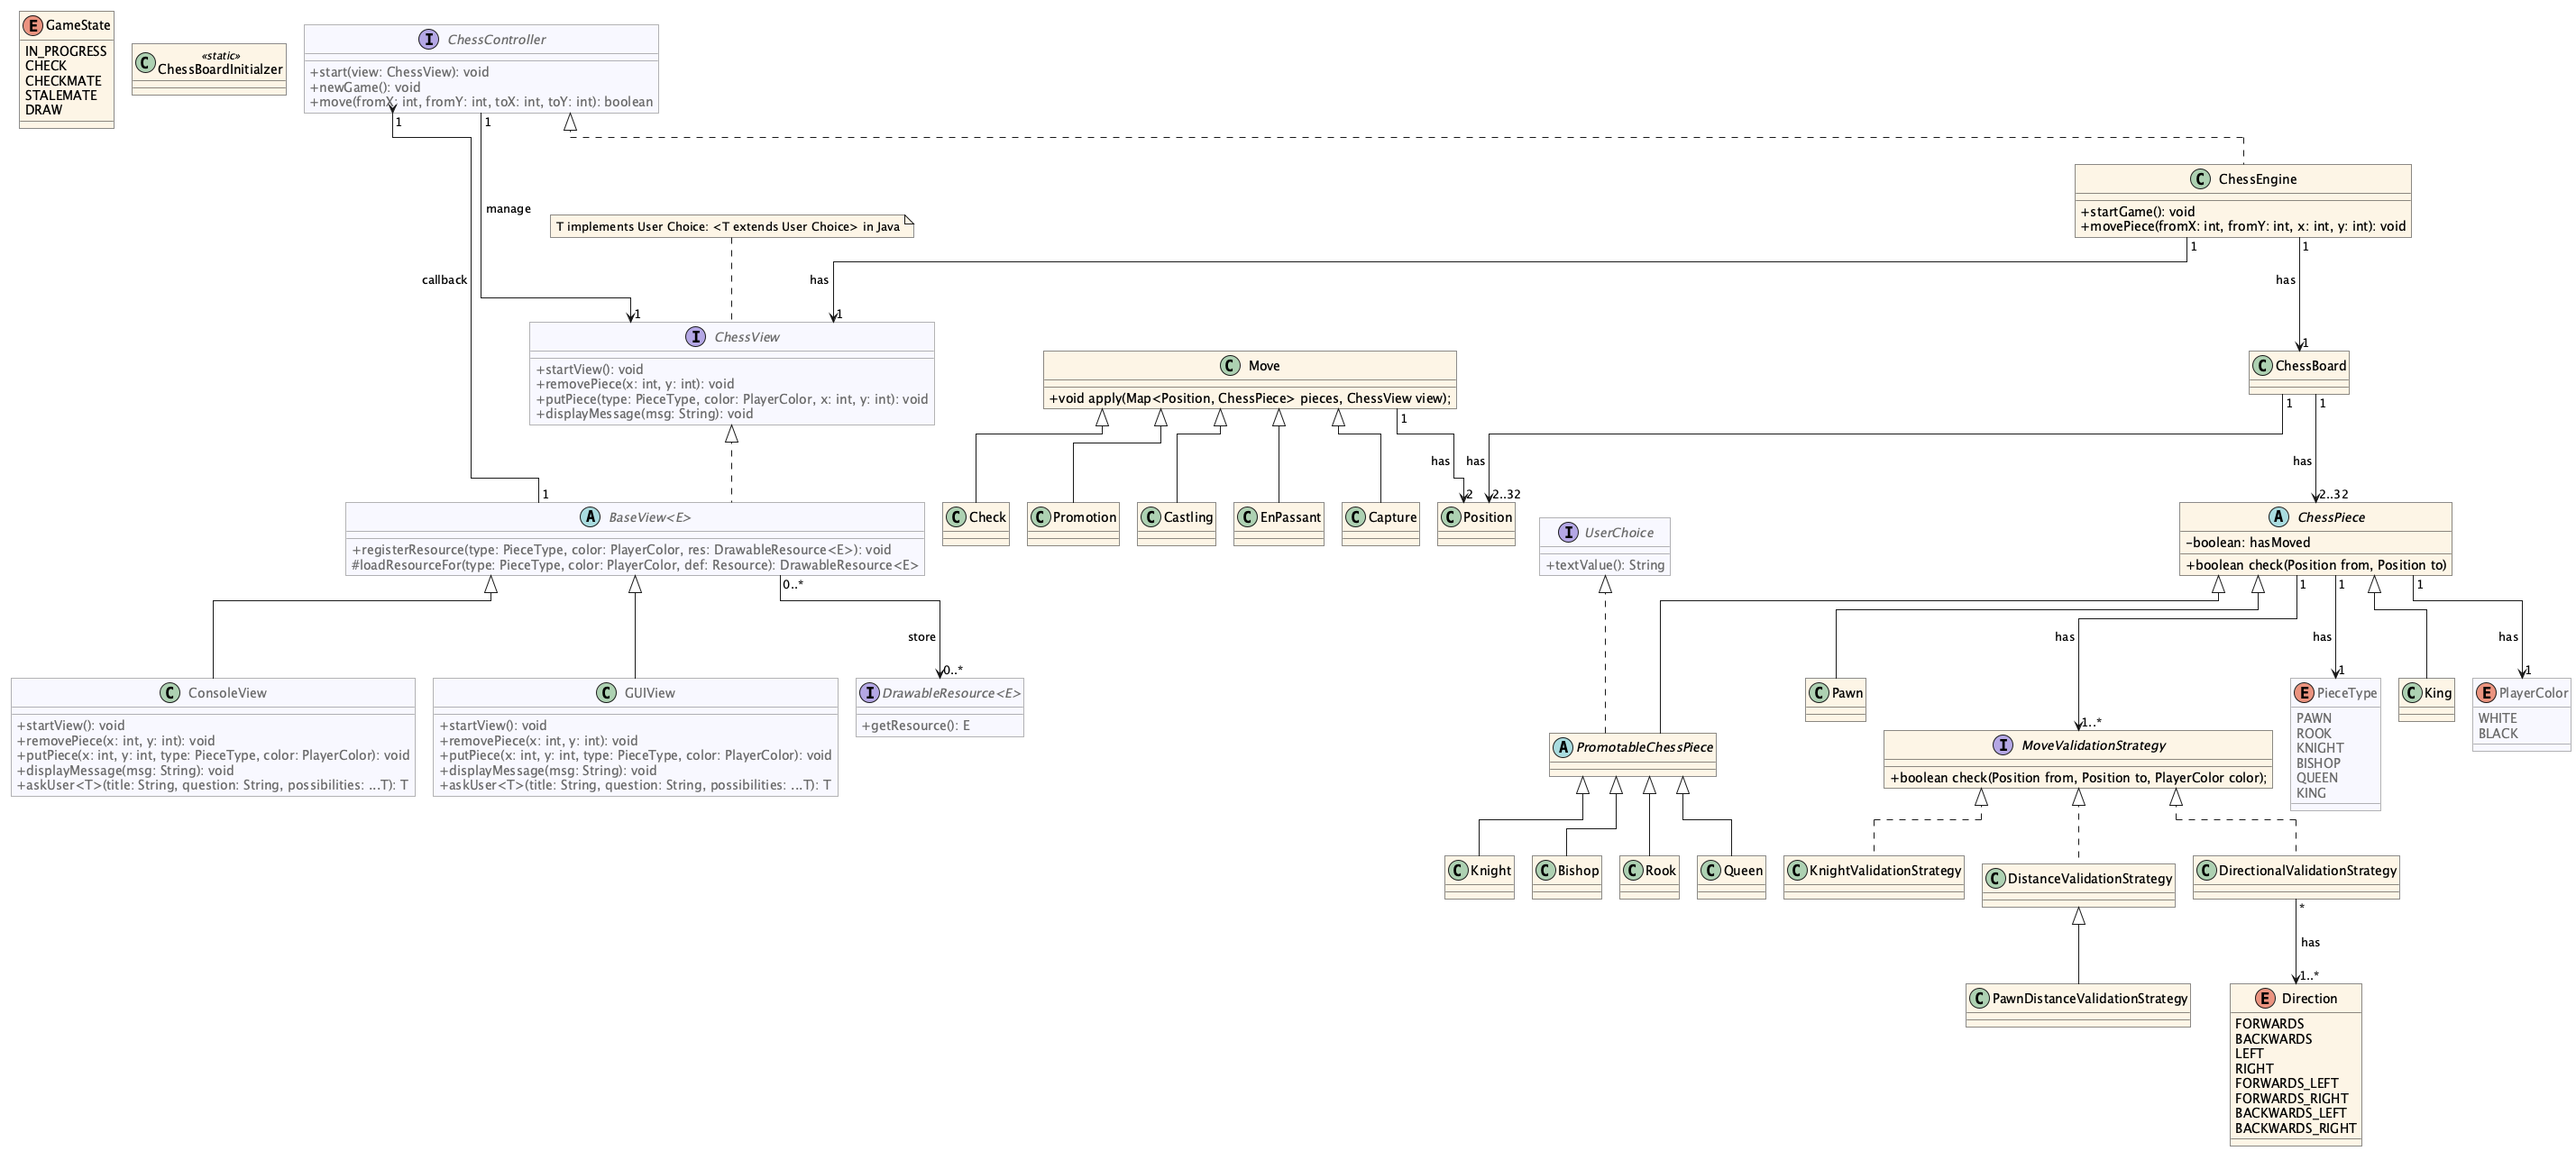
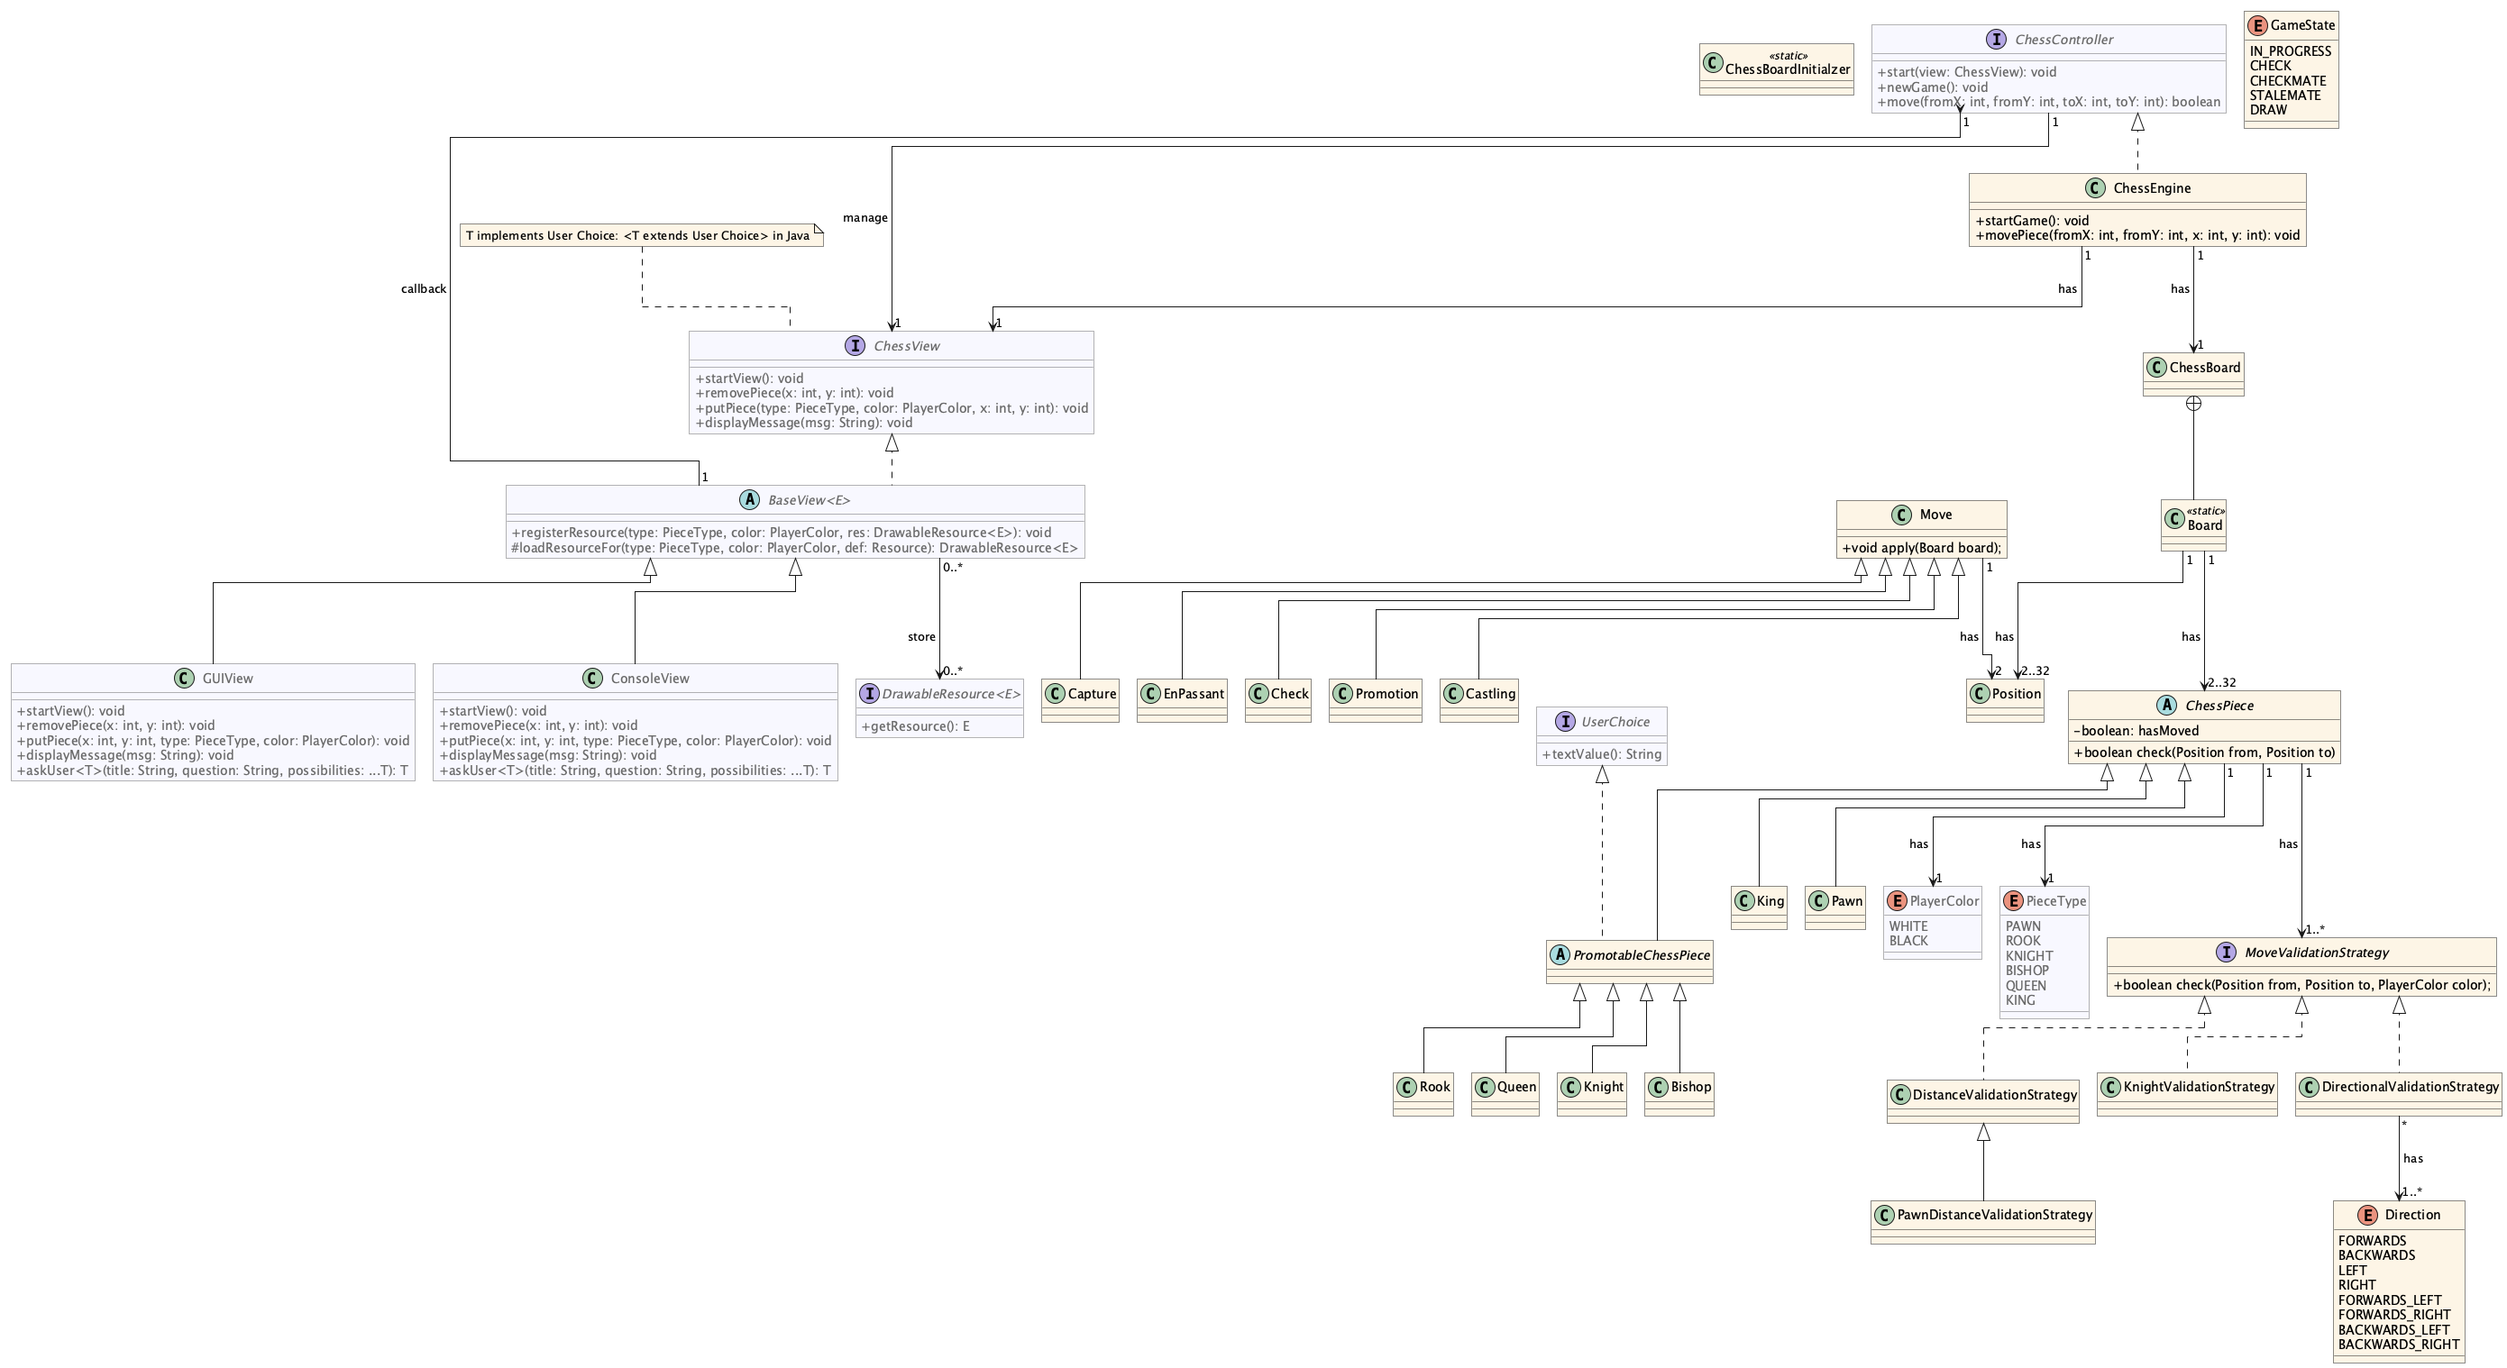
Refactor with Board inner class

diff --git a/chess/engine/ChessBoardInitializer.java b/chess/engine/ChessBoardInitializer.java
@@ -6,51 +6,51 @@ import chess.engine.piece.*;
 import java.util.Map;
 
 class ChessBoardInitializer {
-    public static void initializeBoard(Map<Position, ChessPiece> pieces) {
-        pieces.clear();
-        placePawns(pieces);
-        placeRooks(pieces);
-        placeKnights(pieces);
-        placeBishops(pieces);
-        placeKings(pieces);
-        placeQueens(pieces);
+    public static void initializeBoard(ChessBoard.Board board) {
+        board.clear();
+        placePawns(board);
+        placeRooks(board);
+        placeKnights(board);
+        placeBishops(board);
+        placeKings(board);
+        placeQueens(board);
     }
 
-    private static void placePawns(Map<Position, ChessPiece> pieces) {
+    private static void placePawns(ChessBoard.Board board) {
         for (int i = 0; i < 8; i++) {
-            pieces.put(new Position(i, 6), new Pawn(PlayerColor.WHITE));
-            pieces.put(new Position(i, 1), new Pawn(PlayerColor.BLACK));
+            board.put(new Position(i, 6), new Pawn(PlayerColor.WHITE));
+            board.put(new Position(i, 1), new Pawn(PlayerColor.BLACK));
         }
     }
 
-    private static void placeRooks(Map<Position, ChessPiece> pieces) {
-        pieces.put(new Position(0, 0), new Rook(PlayerColor.BLACK));
-        pieces.put(new Position(7, 0), new Rook(PlayerColor.BLACK));
-        pieces.put(new Position(0, 7), new Rook(PlayerColor.WHITE));
-        pieces.put(new Position(7, 7), new Rook(PlayerColor.WHITE));
+    private static void placeRooks(ChessBoard.Board board) {
+        board.put(new Position(0, 0), new Rook(PlayerColor.BLACK));
+        board.put(new Position(7, 0), new Rook(PlayerColor.BLACK));
+        board.put(new Position(0, 7), new Rook(PlayerColor.WHITE));
+        board.put(new Position(7, 7), new Rook(PlayerColor.WHITE));
     }
 
-    private static void placeKnights(Map<Position, ChessPiece> pieces) {
-        pieces.put(new Position(1, 0), new Knight(PlayerColor.BLACK));
-        pieces.put(new Position(6, 0), new Knight(PlayerColor.BLACK));
-        pieces.put(new Position(1, 7), new Knight(PlayerColor.WHITE));
-        pieces.put(new Position(6, 7), new Knight(PlayerColor.WHITE));
+    private static void placeKnights(ChessBoard.Board board) {
+        board.put(new Position(1, 0), new Knight(PlayerColor.BLACK));
+        board.put(new Position(6, 0), new Knight(PlayerColor.BLACK));
+        board.put(new Position(1, 7), new Knight(PlayerColor.WHITE));
+        board.put(new Position(6, 7), new Knight(PlayerColor.WHITE));
     }
 
-    private static void placeBishops(Map<Position, ChessPiece> pieces) {
-        pieces.put(new Position(2, 0), new Bishop(PlayerColor.BLACK));
-        pieces.put(new Position(5, 0), new Bishop(PlayerColor.BLACK));
-        pieces.put(new Position(2, 7), new Bishop(PlayerColor.WHITE));
-        pieces.put(new Position(5, 7), new Bishop(PlayerColor.WHITE));
+    private static void placeBishops(ChessBoard.Board board) {
+        board.put(new Position(2, 0), new Bishop(PlayerColor.BLACK));
+        board.put(new Position(5, 0), new Bishop(PlayerColor.BLACK));
+        board.put(new Position(2, 7), new Bishop(PlayerColor.WHITE));
+        board.put(new Position(5, 7), new Bishop(PlayerColor.WHITE));
     }
 
-    private static void placeKings(Map<Position, ChessPiece> pieces) {
-        pieces.put(new Position(4, 0), new King(PlayerColor.BLACK));
-        pieces.put(new Position(4, 7), new King(PlayerColor.WHITE));
+    private static void placeKings(ChessBoard.Board board) {
+        board.put(new Position(4, 0), new King(PlayerColor.BLACK));
+        board.put(new Position(4, 7), new King(PlayerColor.WHITE));
     }
 
-    private static void placeQueens(Map<Position, ChessPiece> pieces) {
-        pieces.put(new Position(3, 0), new Queen(PlayerColor.BLACK));
-        pieces.put(new Position(3, 7), new Queen(PlayerColor.WHITE));
+    private static void placeQueens(ChessBoard.Board board) {
+        board.put(new Position(3, 0), new Queen(PlayerColor.BLACK));
+        board.put(new Position(3, 7), new Queen(PlayerColor.WHITE));
     }
 }

diff --git a/chess/engine/ChessBoard.java b/chess/engine/ChessBoard.java
@@ -1,5 +1,6 @@
 package chess.engine;
 
+import chess.ChessView;
 import chess.engine.move.Move;
 import chess.engine.piece.*;
 
@@ -7,28 +8,67 @@ import java.util.HashMap;
 import java.util.Map;
 
 public class ChessBoard {
+    public static class Board {
+        private final Map<Position, ChessPiece> pieces = new HashMap<>();
+        private final ChessView view;
 
-    private final Map<Position, ChessPiece> pieces = new HashMap<>();
+        public Board(ChessView view) {
+            this.view = view;
+        }
 
-    public ChessBoard() {
+        public void put(Position pos, ChessPiece piece) {
+            pieces.put(pos, piece);
+            view.putPiece(piece.getType(), piece.getColor(), pos.x(), pos.y());
+        }
+
+        public ChessPiece get(Position pos) {
+            return pieces.get(pos);
+        }
+
+        public void remove(Position pos) {
+            pieces.remove(pos);
+            view.removePiece(pos.x(), pos.y());
+        }
+
+        public boolean containsKey(Position pos) {
+            return pieces.containsKey(pos);
+        }
+
+        public void clear() {
+            pieces.clear();
+        }
+
+        public void sync() {
+            for (Map.Entry<Position, ChessPiece> entry : pieces.entrySet()) {
+                final Position pos = entry.getKey();
+                final ChessPiece piece = entry.getValue();
+                view.putPiece(piece.getType(), piece.getColor(), pos.x(), pos.y());
+            }
+        }
+    }
+
+    private final Board board;
+
+    public ChessBoard(ChessView view) {
+        this.board = new Board(view);
         reset();
     }
 
-    public Map<Position, ChessPiece> getPieces() {
-        return pieces;
+    public Board getBoard() {
+        return board;
     }
 
     public void reset() {
-        ChessBoardInitializer.initializeBoard(pieces);
+        ChessBoardInitializer.initializeBoard(board);
     }
 
     public Move move(Position from, Position to) {
         // Check if piece exists at source position
-        if (!pieces.containsKey(from)) return null;
+        if (!board.containsKey(from)) return null;
 
-        final ChessPiece piece = pieces.get(from);
+        final ChessPiece piece = board.get(from);
         // Check if same color piece is at destination
-        if (pieces.containsKey(to) && pieces.get(to).getColor() == piece.getColor()) return null;
+        if (board.containsKey(to) && board.get(to).getColor() == piece.getColor()) return null;
 
         // Check if piece can move to this position
         if (!piece.check(from, to)) return null;
@@ -36,10 +76,5 @@ public class ChessBoard {
         // TODO: Check if along the path of piece if movement is allowed
         // TODO: Create different movement types based on the action (Capture, Promotion, etc.)
         return new Move(from, to);
-    }
-
-    public ChessPiece getPiece(Position from) {
-        assert pieces.containsKey(from) : "Requested piece must exist";
-        return pieces.get(from);
     }
 }

diff --git a/chess/engine/ChessEngine.java b/chess/engine/ChessEngine.java
@@ -6,12 +6,11 @@ import chess.engine.move.Move;
 import chess.engine.piece.Position;
 
 public class ChessEngine implements ChessController {
-    private final ChessBoard board = new ChessBoard();
-    private ChessView view;
+    private ChessBoard chessBoard;
 
     @Override
     public void start(ChessView view) {
-        this.view = view;
+        this.chessBoard = new ChessBoard(view);
         view.startView();
         newGame();
     }
@@ -20,22 +19,20 @@ public class ChessEngine implements ChessController {
     public boolean move(int fromX, int fromY, int toX, int toY) {
         final Position from = new Position(fromX, fromY);
         final Position to = new Position(toX, toY);
-        final Move move = board.move(from, to);
+        final Move move = chessBoard.move(from, to);
         if (move == null) {
             return false;
         }
-        move.apply(board.getPieces(), view);
+        move.apply(chessBoard.getBoard());
         return true;
     }
 
     @Override
     public void newGame() {
-        if (view == null) {
-            throw new RuntimeException("View must be set before calling newGame()");
+        if (chessBoard == null) {
+            throw new RuntimeException("Call ChessEngine.start() before reseting the game");
         }
-        board.reset();
-        board.getPieces().forEach((pos, chessPiece) ->
-                view.putPiece(chessPiece.getType(), chessPiece.getColor(), pos.x(), pos.y())
-        );
+        chessBoard.reset();
+        chessBoard.getBoard().sync();
     }
 }

diff --git a/chess/engine/move/Move.java b/chess/engine/move/Move.java
@@ -1,6 +1,7 @@
 package chess.engine.move;
 
 import chess.ChessView;
+import chess.engine.ChessBoard;
 import chess.engine.piece.ChessPiece;
 import chess.engine.piece.Position;
 
@@ -15,12 +16,10 @@ public class Move {
         this.to = to;
     }
 
-    public void apply(Map<Position, ChessPiece> pieces, ChessView view) {
-        ChessPiece p = pieces.get(from);
-        pieces.remove(from);
+    public void apply(ChessBoard.Board board) {
+        ChessPiece p = board.get(from);
+        board.remove(from);
         p.setHasMoved(true);
-        pieces.put(to, p);
-        view.removePiece(from.x(), from.y());
-        view.putPiece(p.getType(), p.getColor(), to.x(), to.y());
+        board.put(to, p);
     }
 }
